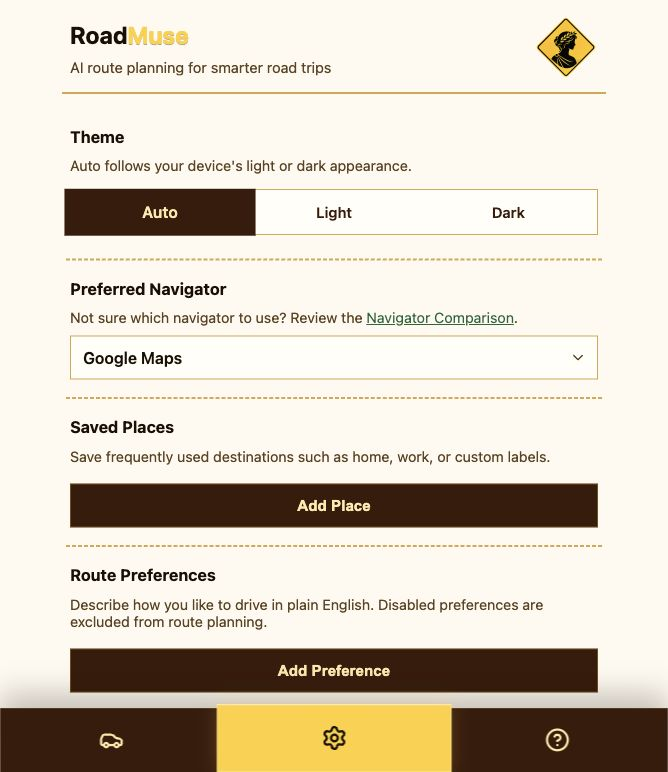
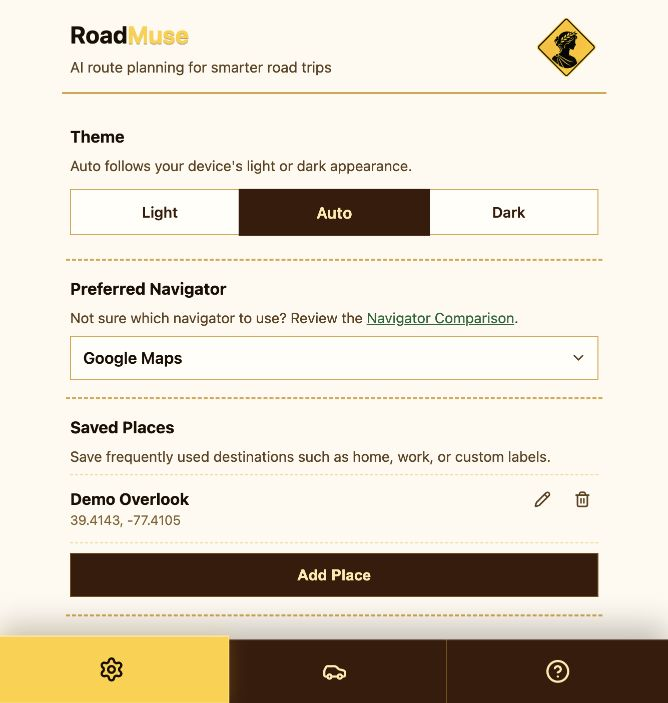
Polish config controls and screenshots

diff --git a/spa/src/styles.css b/spa/src/styles.css
@@ -74,10 +74,10 @@
   --badge-unsupported-bg: #fee2e2;
   --badge-neutral-text: #475569;
   --badge-neutral-bg: #e2e8f0;
-  --preference-disabled-bg: #eef0f2;
-  --preference-disabled-border: #c7cbd1;
-  --preference-disabled-text: #5d6673;
-  --preference-disabled-muted: #737b86;
+  --preference-disabled-bg: #f1e4c4;
+  --preference-disabled-border: #d0b06f;
+  --preference-disabled-text: #6c5838;
+  --preference-disabled-muted: #7b6a49;
 
   color: var(--color-text);
   background: var(--color-bg);
@@ -138,10 +138,10 @@
   --badge-unsupported-bg: #7f1d1d;
   --badge-neutral-text: #cbd5e1;
   --badge-neutral-bg: #334155;
-  --preference-disabled-bg: #27272a;
-  --preference-disabled-border: #52525b;
-  --preference-disabled-text: #a1a1aa;
-  --preference-disabled-muted: #8f8f96;
+  --preference-disabled-bg: #30251a;
+  --preference-disabled-border: #73572f;
+  --preference-disabled-text: #c2ae82;
+  --preference-disabled-muted: #a99972;
 
   --lobster: #f87171;
 }

diff --git a/spa/src/components/BottomNav.test.tsx b/spa/src/components/BottomNav.test.tsx
@@ -4,6 +4,21 @@ import { MemoryRouter } from "react-router-dom";
 import { BottomNav } from "./BottomNav";
 
 describe("BottomNav", () => {
+  it("shows config, main, then help and selects main by default", () => {
+    render(
+      <MemoryRouter initialEntries={["/"]}>
+        <BottomNav />
+      </MemoryRouter>,
+    );
+
+    expect(screen.getAllByRole("link").map((link) => link.getAttribute("aria-label"))).toEqual([
+      "Config",
+      "Main",
+      "Help",
+    ]);
+    expect(screen.getByRole("link", { name: "Main" })).toHaveClass("active");
+  });
+
   it("marks the current route active", () => {
     render(
       <MemoryRouter initialEntries={["/config"]}>

diff --git a/spa/src/data/theme.ts b/spa/src/data/theme.ts
@@ -1,12 +1,12 @@
-export const themeModes = ["auto", "light", "dark"] as const;
+export const themeModes = ["light", "auto", "dark"] as const;
 
 export type ThemeMode = (typeof themeModes)[number];
 
 export type EffectiveTheme = "light" | "dark";
 
 export const themeModeLabels: Record<ThemeMode, string> = {
-  auto: "Auto",
   light: "Light",
+  auto: "Auto",
   dark: "Dark",
 };
 

diff --git a/spa/src/components/BottomNav.tsx b/spa/src/components/BottomNav.tsx
@@ -2,8 +2,8 @@ import { Car, CircleHelp, Settings, type LucideIcon } from "lucide-react";
 import { NavLink } from "react-router-dom";
 
 const navItems: Array<{ Icon: LucideIcon; label: string; to: string }> = [
-  { Icon: Car, label: "Main", to: "/" },
   { Icon: Settings, label: "Config", to: "/config" },
+  { Icon: Car, label: "Main", to: "/" },
   { Icon: CircleHelp, label: "Help", to: "/help" },
 ];
 